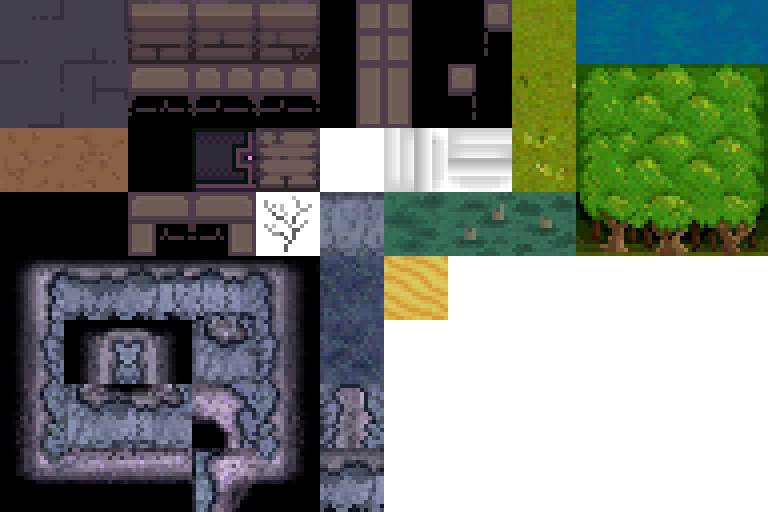
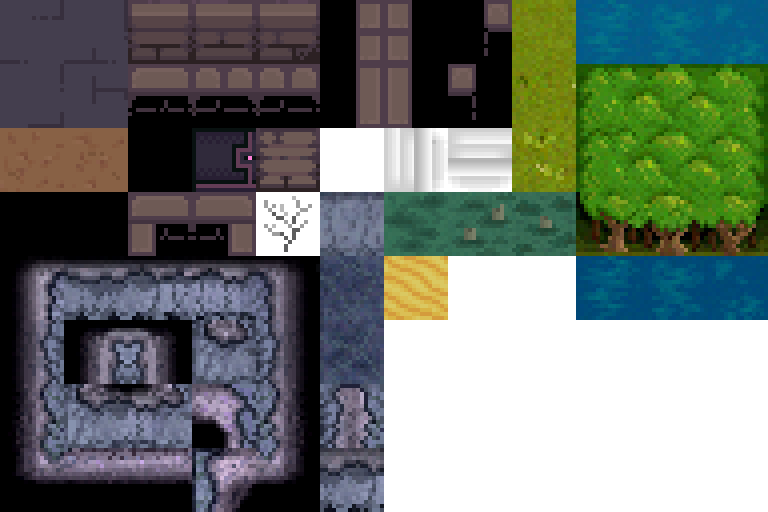
water depth

Changed region(s): [[0.75, 0.5, 1.0, 0.625]]

diff --git a/src/main/kotlin/world/cartos/Carto.kt b/src/main/kotlin/world/cartos/Carto.kt
@@ -161,6 +161,19 @@ abstract class Carto(
         return c
     }
 
+    protected fun neighborCount(x: Int, y: Int, match: (Terrain.Type)->Boolean): Int {
+        var c = 0
+        if (match(getTerrain(x-1,y))) c++
+        if (match(getTerrain(x+1,y))) c++
+        if (match(getTerrain(x,y-1))) c++
+        if (match(getTerrain(x,y+1))) c++
+        if (match(getTerrain(x-1,y-1))) c++
+        if (match(getTerrain(x-1,y+1))) c++
+        if (match(getTerrain(x+1,y-1))) c++
+        if (match(getTerrain(x+1,y+1))) c++
+        return c
+    }
+
     protected fun cardinalBlockerCount(x: Int, y: Int): Int {
         var c = 0
         if (!isWalkableAt(x-1,y)) c++
@@ -319,16 +332,75 @@ abstract class Carto(
         var cursorX = start.x.toFloat()
         var cursorY = start.y.toFloat()
         while (stepsLeft > 0) {
-            carveRoom(Rect((x0 + cursorX - width / 2 - 1).toInt(), (y0 + cursorY - width / 2 - 1).toInt(),
-                x0 + cursorX.toInt() + width.toInt() + 2, y0 + cursorY.toInt() + width.toInt() + 2),
-                0, Terrain.Type.TERRAIN_GRASS, true, Terrain.Type.TERRAIN_WATER)
             carveRoom(Rect((x0 + cursorX - width / 2).toInt(), (y0 + cursorY - width / 2).toInt(),
                 x0 + cursorX.toInt() + width.toInt(), y0 + cursorY.toInt() + width.toInt()),
-                0, Terrain.Type.TERRAIN_WATER, (width >= 3f))
+                0, Terrain.Type.GENERIC_WATER, (width >= 3f))
             cursorX += stepX
             cursorY += stepY
             stepsLeft--
             width += stepWidth
+        }
+    }
+
+    protected fun boundsCheck(x: Int, y: Int) = (x >= x0 && y >= y0 && x <= x1 && y <= y1)
+
+    protected fun fuzzTerrain(type: Terrain.Type, density: Float) {
+        forEachCell { x, y ->
+            if (getTerrain(x,y) == type) {
+                CARDINALS.forEach { dir ->
+                    if (boundsCheck(x + dir.x, y + dir.y) && getTerrain(x + dir.x, y + dir.y) != type) {
+                        if (Dice.chance(density)) {
+                            setTerrain(x + dir.x, y + dir.y, type)
+                        }
+                    }
+                }
+            }
+        }
+    }
+
+    protected fun fringeTerrain(type: Terrain.Type, withType: Terrain.Type, density: Float) {
+        forEachCell { x, y ->
+            if (getTerrain(x,y) == type) {
+                DIRECTIONS.forEach { dir ->
+                    if (boundsCheck(x + dir.x, y + dir.y) && getTerrain(x + dir.x, y + dir.y) != type) {
+                        if (Dice.chance(density)) {
+                            setTerrain(x + dir.x, y + dir.y, withType)
+                        }
+                    }
+                }
+            }
+        }
+    }
+
+    protected fun deepenWater() {
+        val adds = mutableSetOf<XY>()
+        forEachCell { x, y ->
+            if (getTerrain(x,y) == Terrain.Type.GENERIC_WATER) {
+                val shores = neighborCount(x,y) { it != Terrain.Type.GENERIC_WATER && it != Terrain.Type.TERRAIN_SHALLOW_WATER && it != Terrain.Type.BLANK }
+                if (Dice.chance(shores * 0.75f)) adds.add(XY(x,y))
+            }
+        }
+        adds.forEach { setTerrain(it.x,it.y, Terrain.Type.TERRAIN_SHALLOW_WATER)}
+        var extendChance = 0.4f
+        repeat (3) {
+            adds.clear()
+            forEachCell { x, y ->
+                if (getTerrain(x,y) == Terrain.Type.GENERIC_WATER) {
+                    val shallows = neighborCount(x,y) { it == Terrain.Type.TERRAIN_SHALLOW_WATER }
+                    if (shallows > 0) {
+                        if (Dice.chance(extendChance)) adds.add(XY(x,y))
+                    }
+                }
+            }
+            extendChance -= 0.15f
+            adds.forEach { setTerrain(it.x,it.y, Terrain.Type.TERRAIN_SHALLOW_WATER)}
+        }
+        adds.clear()
+        // Fill remainder with deep
+        forEachCell { x, y ->
+            if (getTerrain(x,y) == Terrain.Type.GENERIC_WATER) {
+                setTerrain(x,y, Terrain.Type.TERRAIN_DEEP_WATER)
+            }
         }
     }
 

diff --git a/src/main/kotlin/world/terrains/Terrain.kt b/src/main/kotlin/world/terrains/Terrain.kt
@@ -23,6 +23,7 @@ sealed class Terrain(
 
     companion object {
         fun get(type: Type) = when (type) {
+            Type.BLANK -> Blank
             Type.TERRAIN_BRICKWALL -> BrickWall
             Type.TERRAIN_CAVEWALL -> CaveWall
             Type.TERRAIN_FORESTWALL -> ForestWall
@@ -31,7 +32,9 @@ sealed class Terrain(
             Type.TERRAIN_DIRT -> Dirt
             Type.TERRAIN_GRASS -> Grass
             Type.TERRAIN_SWAMP -> Swamp
-            Type.TERRAIN_WATER -> Water
+            Type.TERRAIN_SHALLOW_WATER -> ShallowWater
+            Type.TERRAIN_DEEP_WATER -> DeepWater
+            Type.GENERIC_WATER -> ScratchWater
             Type.TERRAIN_PORTAL_DOOR -> PortalDoor
             else -> throw RuntimeException("tried to get(terrainType) for un-instantiatable type $type !")
         }
@@ -47,8 +50,10 @@ sealed class Terrain(
     }
 
     enum class Type {
+        BLANK,
         GENERIC_WALL,
         GENERIC_FLOOR,
+        GENERIC_WATER,
         TERRAIN_BRICKWALL,
         TERRAIN_CAVEWALL,
         TERRAIN_FORESTWALL,
@@ -57,7 +62,8 @@ sealed class Terrain(
         TERRAIN_DIRT,
         TERRAIN_GRASS,
         TERRAIN_SWAMP,
-        TERRAIN_WATER,
+        TERRAIN_SHALLOW_WATER,
+        TERRAIN_DEEP_WATER,
         TERRAIN_PORTAL_DOOR,
     }
 
@@ -77,17 +83,9 @@ sealed class Terrain(
     open fun debugData(data: TerrainData?): String { return "none" }
 }
 
+object Blank : Terrain(Type.BLANK, Glyph.BLANK, true, true, false)
+
 @Serializable
 sealed class TerrainData(
     val forType: Terrain.Type
 )
-
-object Water : Terrain(
-    Type.TERRAIN_WATER,
-    Glyph.WATER,
-    false,
-    true,
-    false
-) {
-
-}

diff --git a/src/main/kotlin/world/ChunkMeta.kt b/src/main/kotlin/world/ChunkMeta.kt
@@ -25,6 +25,8 @@ class ChunkMeta(
     val riverExits: MutableList<RiverExit> = mutableListOf(),
     val riverWiggle: Float = 0f,
     val riverBlur: Float = 0f,
+    val riverGrass: Float = 0f,
+    val riverDirt: Float = 0f,
     val biome: Biome
 )
 
@@ -47,6 +49,8 @@ class ChunkScratch(
     var riverRun = false
     var riverWiggle = 0f
     var riverBlur = 0f
+    var riverGrass = 0f
+    var riverDirt = 0f
     var biome = Biome.OCEAN
 
     var riverExits: MutableList<RiverExit> = mutableListOf()
@@ -58,6 +62,8 @@ class ChunkScratch(
         riverExits = riverExits,
         riverWiggle = riverWiggle,
         riverBlur = riverBlur,
+        riverGrass = riverGrass,
+        riverDirt = riverDirt,
         biome = biome
     )
 }

diff --git a/src/main/kotlin/world/terrains/Water.kt b/src/main/kotlin/world/terrains/Water.kt
@@ -1,0 +1,24 @@
+package world.terrains
+
+import render.tilesets.Glyph
+
+
+sealed class Water(
+    type: Type,
+    glyph: Glyph
+) : Terrain(type, glyph, false, true, false, dataType = Type.GENERIC_WATER){
+
+
+
+}
+
+object ShallowWater : Water(Type.TERRAIN_SHALLOW_WATER, Glyph.SHALLOW_WATER) {
+    override fun isWalkable() = true
+}
+
+object DeepWater : Water(Type.TERRAIN_DEEP_WATER, Glyph.DEEP_WATER) {
+    override fun isWalkable() = false
+}
+
+// Only used in generation, should never appear in the world
+object ScratchWater : Water(Type.GENERIC_WATER, Glyph.BLANK) { }

diff --git a/src/main/kotlin/world/cartos/Metamapper.kt b/src/main/kotlin/world/cartos/Metamapper.kt
@@ -170,9 +170,12 @@ object Metamapper {
                 for (y in 0 until chunkRadius*2) {
                     val cell = metas[x][y]
                     if (cell.riverExits.isNotEmpty()) {
+
                         val wiggle = 0.2f  // TODO : get from perlin
                         cell.riverWiggle = wiggle
                         cell.riverBlur = 0.3f
+                        cell.riverGrass = 0.8f
+                        cell.riverDirt = 0.2f
 
                         var isNorth = false
                         var isSouth = false

diff --git a/src/main/kotlin/render/tilesets/TerrainTileSet.kt b/src/main/kotlin/render/tilesets/TerrainTileSet.kt
@@ -115,10 +115,15 @@ fun TerrainTileSet() =
 
         setTile(Glyph.WALL_DAMAGE, SimpleTile(this, 4, 3))
 
-        setTile(Glyph.WATER, WaterTile(this).apply {
+        setTile(Glyph.SHALLOW_WATER, WaterTile(this).apply {
             add(0.3f, 9, 0)
             add(0.4f, 11, 0)
             add(0.3f, 10, 0)
+        })
+        setTile(Glyph.DEEP_WATER, WaterTile(this).apply {
+            add(0.3f, 9, 4)
+            add(0.4f, 11, 4)
+            add(0.3f, 10, 4)
         })
 
         setTile(Glyph.PORTAL_DOOR, SimpleTile(this, 3, 2))

diff --git a/src/main/kotlin/world/terrains/Floors.kt b/src/main/kotlin/world/terrains/Floors.kt
@@ -9,7 +9,7 @@ import world.Chunk
 import world.level.Level
 
 sealed class Floor(
-    type: Terrain.Type,
+    type: Type,
     glyph: Glyph
 ) : Terrain(type, glyph, true, true, false, dataType = Type.GENERIC_FLOOR) {
 
@@ -29,7 +29,7 @@ sealed class Floor(
         val ty1: Float
     )
 
-    open fun overlapsOn(): Set<Terrain.Type> = setOf()
+    open fun overlapsOn(): Set<Type> = setOf()
     open fun overlapSize() = 0.25f
     open fun overlapInset() = 0.1f
 

diff --git a/src/main/kotlin/world/cartos/WorldCarto.kt b/src/main/kotlin/world/cartos/WorldCarto.kt
@@ -82,6 +82,11 @@ class WorldCarto(
                 }
             }
         }
+        fuzzTerrain(Terrain.Type.GENERIC_WATER, meta.riverBlur * 0.5f)
+        fringeTerrain(Terrain.Type.GENERIC_WATER, Terrain.Type.TERRAIN_GRASS, meta.riverGrass)
+        fringeTerrain(Terrain.Type.GENERIC_WATER, Terrain.Type.TERRAIN_DIRT, meta.riverDirt)
+
+        deepenWater()
 
         // Building?
         if (Dice.chance(0.05f) || forStarter) {

diff --git a/src/main/kotlin/world/Chunk.kt b/src/main/kotlin/world/Chunk.kt
@@ -251,7 +251,7 @@ class Chunk(
 
     fun getTerrain(x: Int, y: Int) = if (boundsCheck(x, y)) {
         terrains[x - this.x][y - this.y]
-    } else Terrain.Type.TERRAIN_STONEFLOOR
+    } else Terrain.Type.BLANK
 
     fun setTerrain(x: Int, y: Int, type: Terrain.Type, roofed: Boolean? = null) {
         this.terrains[x - this.x][y - this.y] = type

diff --git a/src/main/kotlin/actors/Player.kt b/src/main/kotlin/actors/Player.kt
@@ -39,7 +39,7 @@ open class Player : Actor() {
     override fun dname() = name()
     override fun iname() = name()
 
-    override fun visualRange() = 18f
+    override fun visualRange() = 24f
     override fun hasActionJuice() = queuedActions.isNotEmpty()
     override fun wantsToAct() = true
     override fun defaultAction(): Action? = null

diff --git a/src/main/kotlin/render/tilesets/Glyph.kt b/src/main/kotlin/render/tilesets/Glyph.kt
@@ -14,7 +14,8 @@ enum class Glyph {
     DIRT,
     GRASS,
     SWAMP,
-    WATER,
+    SHALLOW_WATER,
+    DEEP_WATER,
     PORTAL_DOOR,
     WALL_DAMAGE,
 
